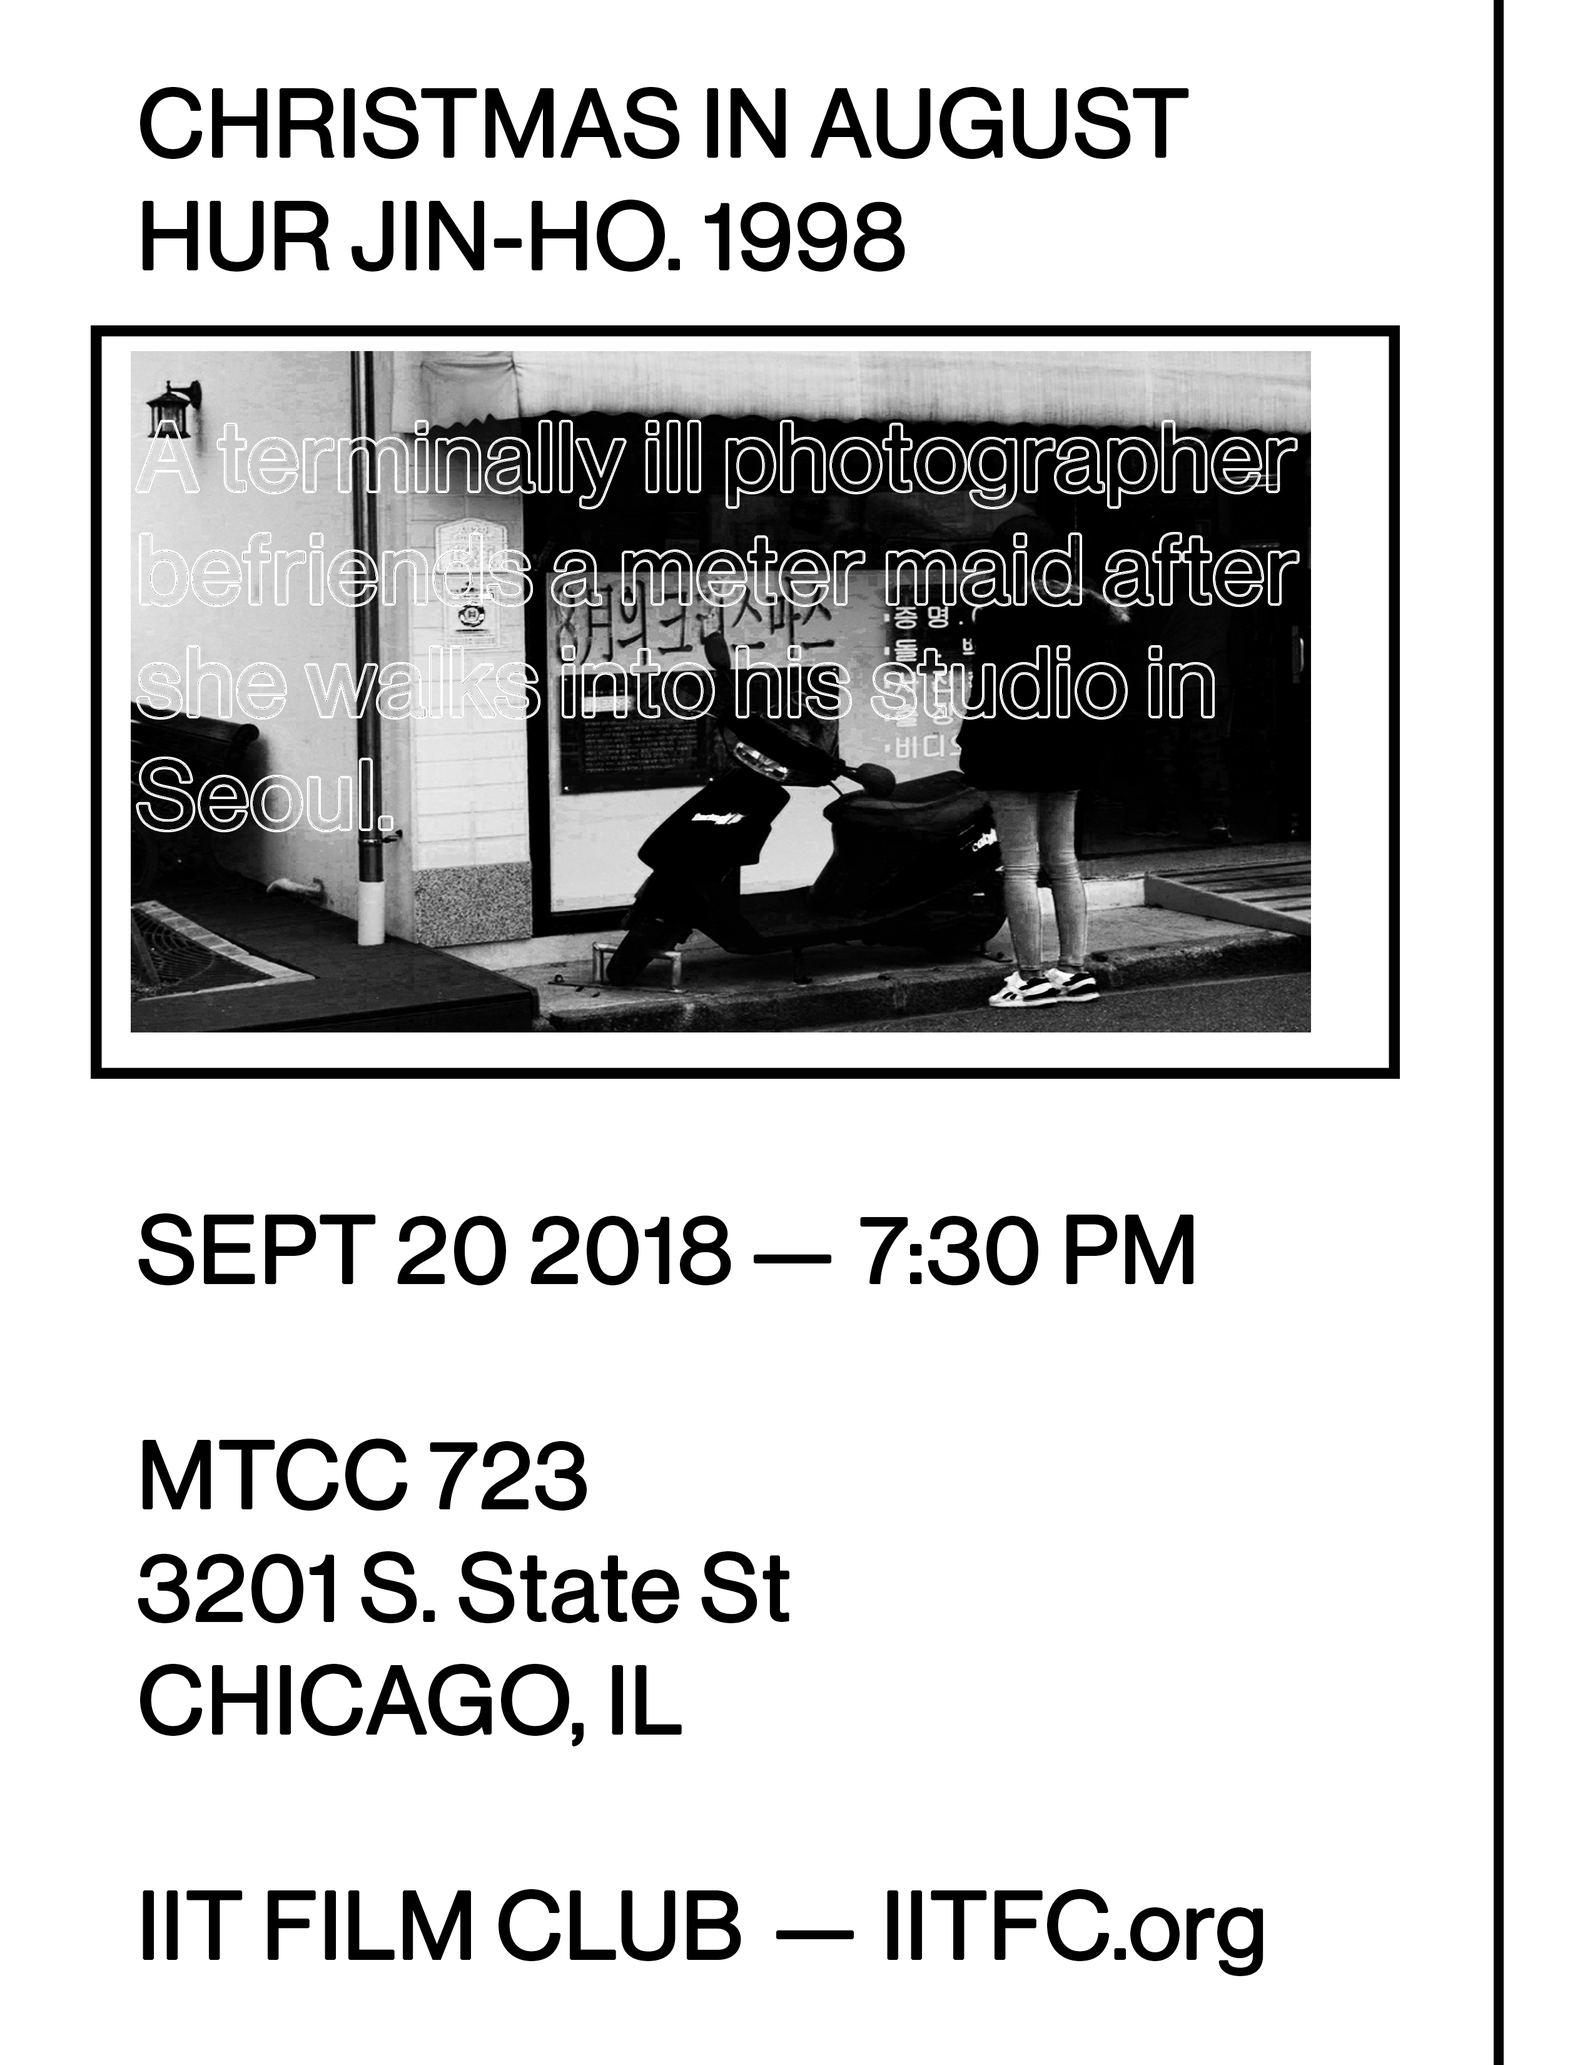
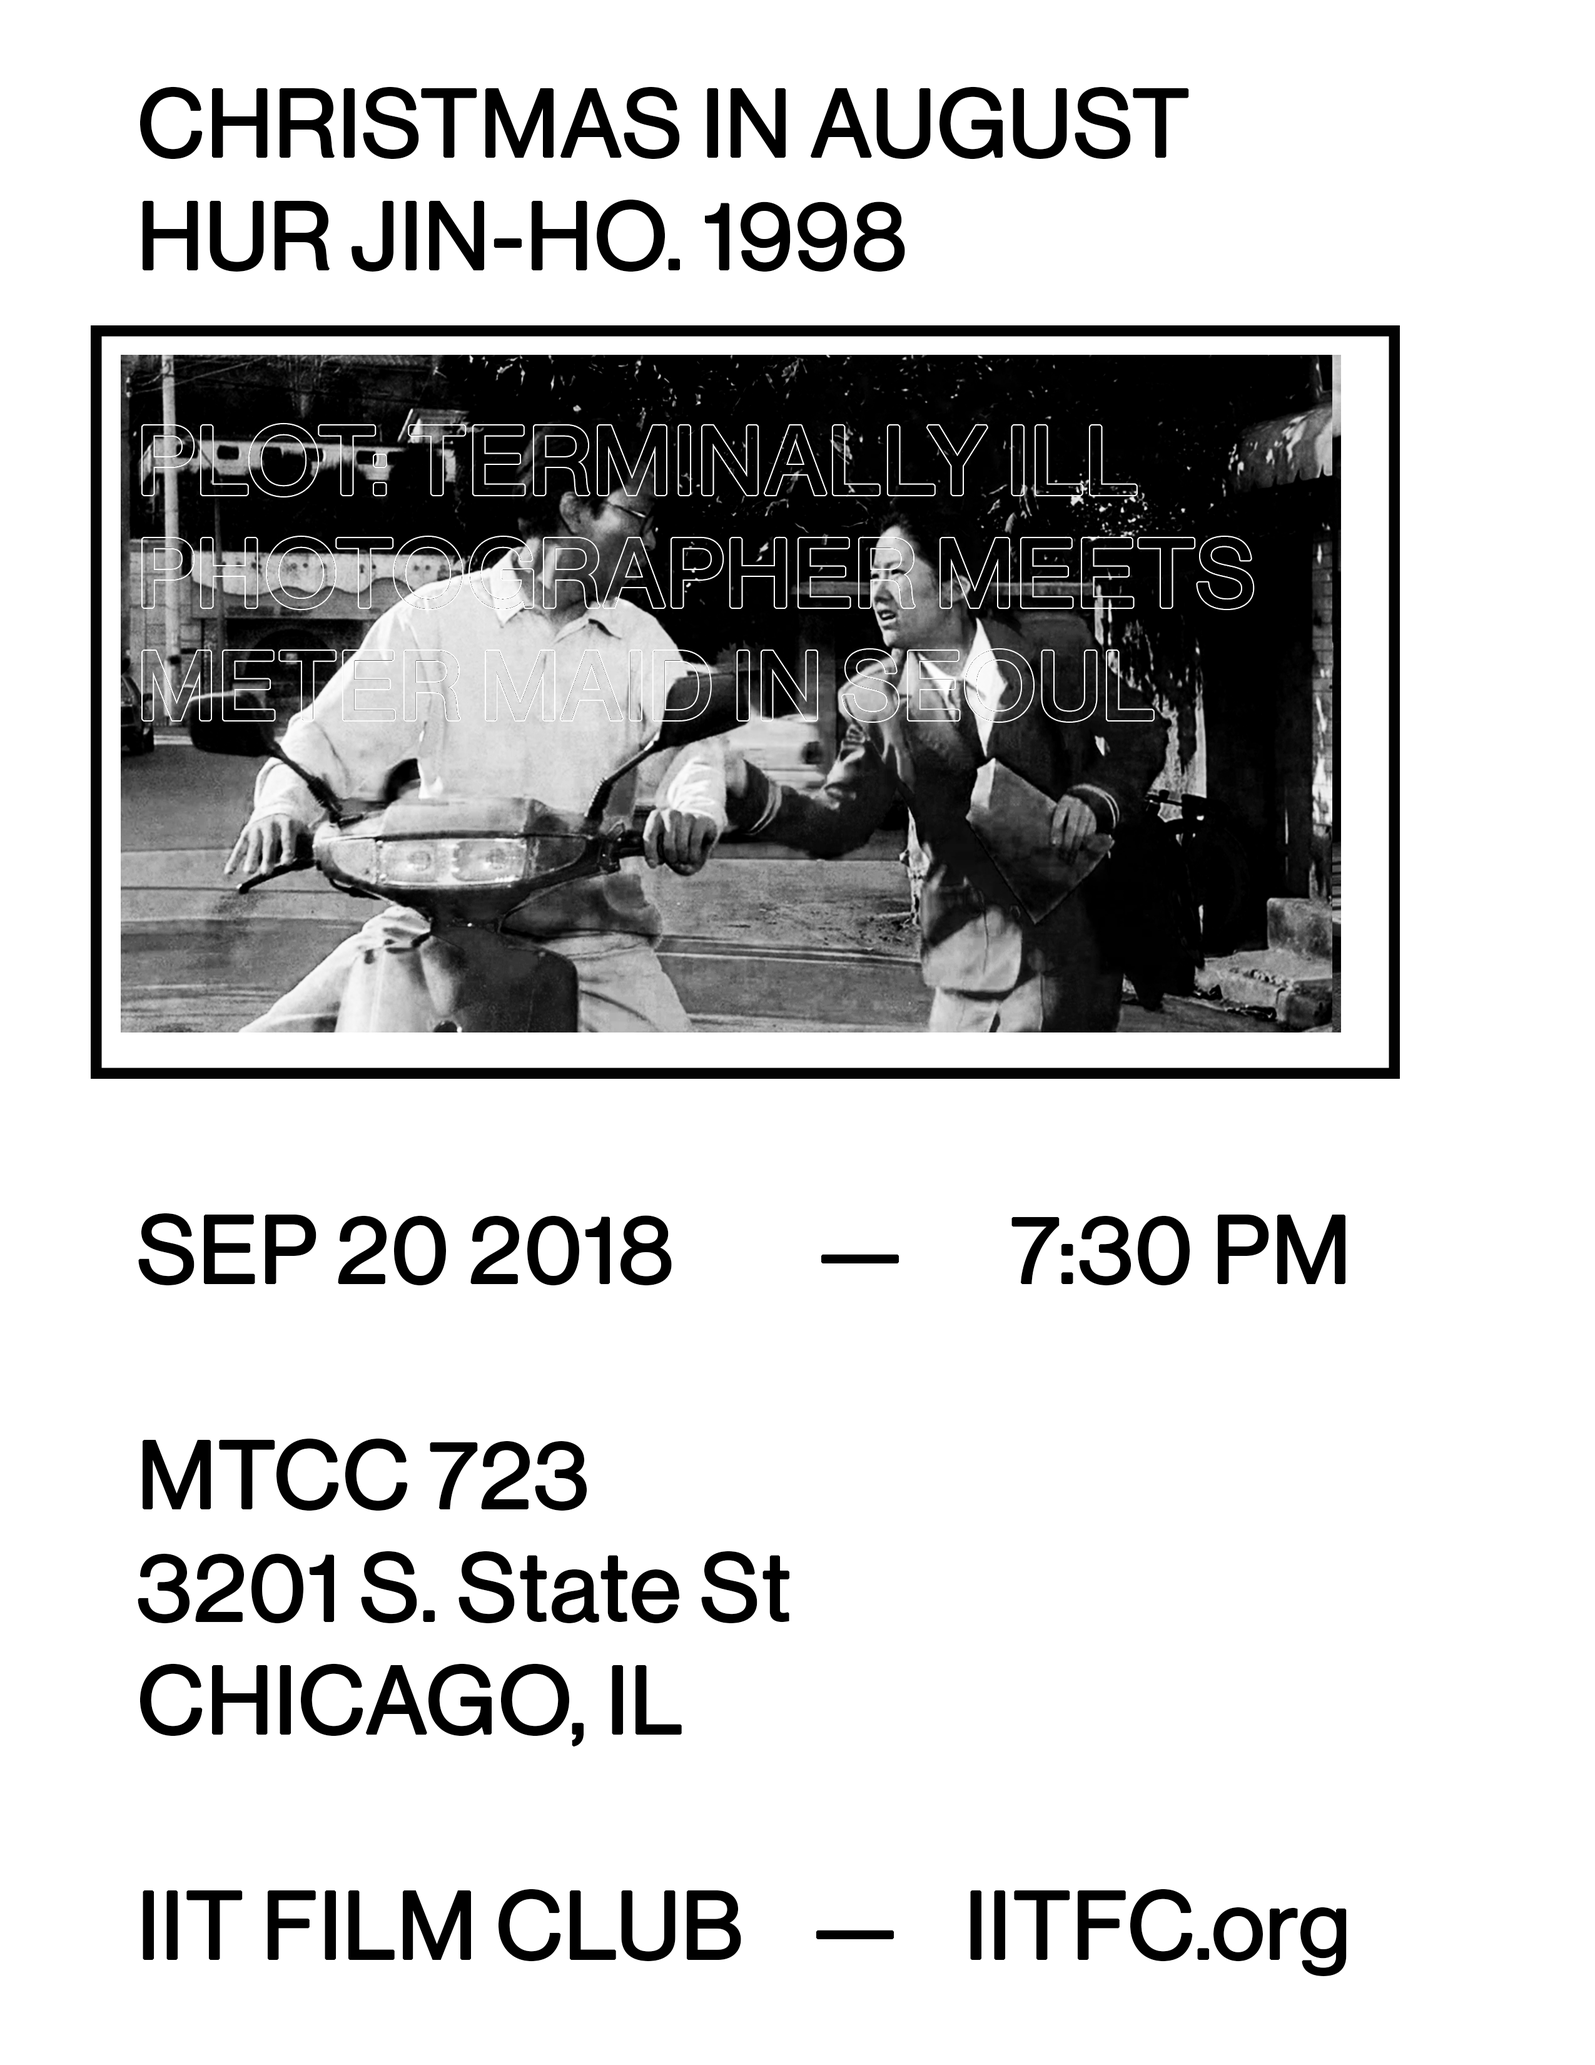
Add files via upload

diff --git a/archive/17/0910.html b/archive/17/0910.html
@@ -1,115 +1,118 @@
-<html><head>
+<html>
+<head>
     <meta http-equiv="Content-Type" content="text/html; charset=UTF-8">
     <title>IIT Film Club</title>
-
     <meta name="viewport" content="width=device-width, initial-scale=1, maximum-scale=1, user-scalable=0">
-
     <meta name="description" content="Illinois Institute of Technology Film Club">
-
     <link rel="stylesheet" href="../../../../style.css">
-
+    <link href="style.css" rel="stylesheet" type="text/css">
 </head>
-
 <body class="black">
+      <header>
+                  <!-- RIGHT HEADER TIME -->
+                    <div id="right" style="float:  right;padding-right: 24px;/* margin-top: 24px; */text-align: right;">
+                        <p>7pm - 11pm</p>
+                        <p>Thursdays</p>
 
-    <header>
-        <div id="right" style="
-    float:  right;
-    padding-right: 24px;
-    /* margin-top: 24px; */
-    text-align: right;
-">
-            <p>7pm - 11pm</p>
-            <p> Thursdays </p>
+                  <!-- RIGHT HEADER ADDRESS -->
+                    </div>
+                    <div id="right-2">
+                      <p style="/* margin-left: -20px; */padding-right: 2px;" class="location">
+                        Located @ <a href="/img/mtcc723.jpg">MTCC #723</a></p>
+                      <p>3201 S State St,</p>
+                        <p style="text-align: left;padding-left: 90px;">
+                          Chicago, IL.</p>
+                    </div>
 
-        </div>
-        <div id="right-2">
-          <p style="/* margin-left: -20px; */padding-right: 2px;" class="location">Located @ <a href="/mtcc725.jpg">MTCC #725</a></p>
-          <p>3201 S State St,</p>
-            <p style="
-    text-align: left;
-    padding-left: 90px;
-"> Chicago, IL.</p>
-        </div>
-        <div id="left" style="
-    margin-top: 0px;
-">
-            <h1><a href="http://www.iitfc.org/" class="logo">IIT FILM CLUB</a></h1>
+                  <!-- LEFT HEADER -->
+                  <div id="left" style="margin-top: 0px;">
+                      <h1><a href="http://www.iitfc.org/" class="logo">IIT FILM CLUB</a></h1>
+                      <p>Organizing campus film interests.</p>
+                      <p> <a href="mailto:fc@hawk.iit.edu">fc@hawk.iit.edu</a>
+                      </p>
 
-            <p>Organizing campus film interests.</p>
-            <p> <a href="mailto:fc@hawk.iit.edu">fc@hawk.iit.edu</a>
-            </p>
+                      <p>
+                          <a href="https://facebook.com/iitfc">[fb]</a>
+                          <span class="dash"></span>
+                          <a href="https://hawklink.iit.edu/organization/filmclub">[iit]</a>
+                      </p>
+                      <br>
 
-            <p>
-                <a href="https://facebook.com/iitfc">[fb]</a>
-                <span class="dash"></span>
-                <a href="https://hawklink.iit.edu/organization/filmclub">[iit]</a>
-            </p>
-            <br>
-
-            <form id="signup" class="mailform" action="https://script.google.com/macros/s/AKfycbyr-KYwhjMX-AqDoBG0TQOY0ASPyleP6Tadg4rvhOxBpDNSlg8/exec" method="post">
-		<input type="hidden" name="_subject" value="FC Sign Up">
-		<input type="hidden" name="_format" value="plain">
+           <!-- MAILING LIST !-->
+                <form id="signup" class="mailform" action="https://script.google.com/macros/s/AKfycbyr-KYwhjMX-AqDoBG0TQOY0ASPyleP6Tadg4rvhOxBpDNSlg8/exec" method="post">
+		            <input type="hidden" name="_subject" value="FC Sign Up">
+		            <input type="hidden" name="_format" value="plain">
                 <input class="email" type="text" name="email" placeholder="e-mail">
                 <input class="join" type="submit" name="submit" value="Join"></form>
+
+            <!-- MONTHS -->
             <p id="dates">
-                <a href="/jan-feb.html">JAN/FEB</a>
+                <a href="/0102.html">JAN/FEB</a>
                 <span class="dash"></span>
-                <a href="/mar-apr.html">MAR/APR</a>
+                <a href="/0304.html">MAR/APR</a>
                 <span class="dash"></span>
-                <a href="/may-jun.html">MAY/JUN</a>
+                <a href="/0506.html">MAY/JUN</a>
                 <span class="dash mobile"></span>
-                <a href="/jul-aug.html">JUL/AUG</a>
+                <a href="/0708.html">JUL/AUG</a>
                 <span class="dash"></span>
-                <a href="/sep-oct.html" class="selected">SEP/OCT</a>
+                <a href="/0910.html" class="selected">SEP/OCT</a>
                 <span class="dash"></span>
-                <a href="/nov-dec.html">NOV/DEC</a>
+                <a href="/1112.html">NOV/DEC</a>
             </p>
         </div>
-
     </header>
 
-    <section class="left full">
-        <div id="result">
+    <!-- LISTINGS -->
+          <section class="left full">
+              <div id="result">
 
-            <a href="https://www.facebook.com/events/1961557740783296/" class="txt-container">
-                <h1><u>OCT 05 2017 — 7:30 PM — MTCC 725</u></h1>
-                <h1>Sonatine (ソナチネ). 1993</h1>
-                <p>Takeshi Kitano</p>
-                <p><br> Several yakuza from Tokyo are sent to Okinawa to help end a gang war. The war escalates and the Tokyo drifters decide to lay low at the beach.</p>
-                <div>Japanese with English subtitles</div>
+              <a href=""   class="txt-container">
+                <h1><u>SEPT 20 2018 — 7:30 PM — MTCC 723</u></h1>
+                <h1>Christmas in August (8월의 크리스마스). 1998</h1>
+                <p>Hur Jin-ho</p>
+                <p><br>A terminally ill photographer befriends a meter maid after she walks into his studio in Seoul.</p>
+                <div>Korean with English subtitles.</div>
+              </a>
+
+              <a href=""   class="txt-container">
+                <h1><u>SEPT 27 2018 — 7:30 PM — MTCC 723</u></h1>
+                <h1>Lovers on the Bridge. 1991</h1>
+                <p>Leos Carax</p>
+                <p><br>A homeless addict and a young painter with failing eyesight forge a bond on the streets of Paris.</p>
+                <div>French with English subtitles.</div>
+              </a>
+
+              <a href=""   class="txt-container">
+                <h1><u>OCT 4 2018 — 7:30 PM — MTCC 723</u></h1>
+                <h1>Terrorizers. 1986</h1>
+                <p>Edward Yang</p>
+                <p><br>A metaphysical mystery about the lives of three couples in Taipei that continually intersect over a span of several weeks.</p>
+                <div>Taiwanese with English subtitles.</div>
             </a>
 
-            <a href="https://www.facebook.com/events/135316427199637/" class="txt-container">
-                <h1><u>OCT 12 2017 — 7:30 PM — MTCC 725</u></h1>
-                <h1>3-Iron (빈집). 2004</h1>
-                <p>Kim Ki-duk</p>
-                <p><br> A transient young man breaks into empty homes to partake of the vacationing residents' lives for a few days.
-                </p>
-                <div>Korean with English subtitles</div>
-            </a>
+              <a href=""   class="txt-container">
+                <h1><u>OCT 11 2018 — 7:30 PM — MTCC 723</u></h1>
+                <h1>L'Amour Braque. 1985</h1>
+                <p>Andrzej Zulawski</p>
+                <p><br>Léon, Marie and Mickey experience a love triangle.</p>
+                <div>French with English subtitles.</div>
+              </a>
 
+              <a href=""   class="txt-container">
+                <h1><u>OCT 18 2018 — 7:30 PM — MTCC 723</u></h1>
+                <h1>Betty Blue (37° 2 le matin). 1986</h1>
+                <p>Jean-Jacques Beineix</p>
+                <p><br>A young woman whose passionate affair with handyman and would-be writer inexorably drifts towards tragedy as she becomes increasingly unbalanced.</p>
+                <div>French with English subtitles.</div>
+              </a>
 
-            <a href="https://www.facebook.com/events/1609891955724202/" class="txt-container">
-                <h1><u>OCT 19 2017 — 7:30 PM — MTCC 725</u></h1>
-                <h1>Videodrome, 1983</h1>
-                <p>David Cronenberg</p>
-                <p><br>The CEO of a television station stumbles upon a broadcast signal featuring extreme violence and torture. His attempts to uncover the source of the signal unravels a new media mind-control conspiracy in this techno-surrealist horror.
-                </p>
-                <div>English</div>
-            </a>
+              </div>
+          </section>
 
-            <a href="https://www.facebook.com/events/835269826634482/" class="txt-container">
-                <h1><u>OCT 26 2017 — 7:30 PM — MTCC 725</u></h1>
-                <h1>Ring (リング). 1998</h1>
-                <p>Hideo Nakata</p>
-                <p><br> A reporter and her ex-husband investigate a cursed video tape that is rumored to kill the viewer seven days after watching it.
-                </p>
-                <div>Japanese with English subtitles</div>
-            </a>
+    <!-- ARCHIVE -->
 
-
-        </div>
-    </section>
+    <footer>
+    <a href="/archive/00.html">ARCHIVE</a>
+    </footer>
 
 </body></html>

diff --git a/0910.html b/0910.html
@@ -1,35 +1,14 @@
 <html>
-
 <head>
     <meta http-equiv="Content-Type" content="text/html; charset=UTF-8">
     <title>IIT Film Club</title>
     <meta name="viewport" content="width=device-width, initial-scale=1, maximum-scale=1, user-scalable=0">
-
     <meta name="description" content="Illinois Institute of Technology Film Club">
-
     <link rel="stylesheet" href="../../../../style.css">
     <link href="style.css" rel="stylesheet" type="text/css">
 </head>
-
 <body class="black">
-
       <header>
-
-        <!-- LEFT HEADER -->
-        <div id="left" style="margin-top: 0px;">
-            <h1><a href="http://www.iitfc.org/" class="logo">IIT FILM CLUB</a></h1>
-            <p>Organizing campus film interests.</p>
-            <p> <a href="mailto:fc@hawk.iit.edu">fc@hawk.iit.edu</a>
-            </p>
-
-            <p>
-                <a href="https://facebook.com/iitfc">[fb]</a>
-                <span class="dash"></span>
-                <a href="https://hawklink.iit.edu/organization/filmclub">[iit]</a>
-            </p>
-            <br>
-
-
                   <!-- RIGHT HEADER TIME -->
                     <div id="right" style="float:  right;padding-right: 24px;/* margin-top: 24px; */text-align: right;">
                         <p>7pm - 11pm</p>
@@ -45,10 +24,24 @@
                           Chicago, IL.</p>
                     </div>
 
+                  <!-- LEFT HEADER -->
+                  <div id="left" style="margin-top: 0px;">
+                      <h1><a href="http://www.iitfc.org/" class="logo">IIT FILM CLUB</a></h1>
+                      <p>Organizing campus film interests.</p>
+                      <p> <a href="mailto:fc@hawk.iit.edu">fc@hawk.iit.edu</a>
+                      </p>
+
+                      <p>
+                          <a href="https://facebook.com/iitfc">[fb]</a>
+                          <span class="dash"></span>
+                          <a href="https://hawklink.iit.edu/organization/filmclub">[iit]</a>
+                      </p>
+                      <br>
+
            <!-- MAILING LIST !-->
-            <form id="signup" class="mailform" action="https://script.google.com/macros/s/AKfycbyr-KYwhjMX-AqDoBG0TQOY0ASPyleP6Tadg4rvhOxBpDNSlg8/exec" method="post">
-		<input type="hidden" name="_subject" value="FC Sign Up">
-		<input type="hidden" name="_format" value="plain">
+                <form id="signup" class="mailform" action="https://script.google.com/macros/s/AKfycbyr-KYwhjMX-AqDoBG0TQOY0ASPyleP6Tadg4rvhOxBpDNSlg8/exec" method="post">
+		            <input type="hidden" name="_subject" value="FC Sign Up">
+		            <input type="hidden" name="_format" value="plain">
                 <input class="email" type="text" name="email" placeholder="e-mail">
                 <input class="join" type="submit" name="submit" value="Join"></form>
 
@@ -117,6 +110,7 @@
           </section>
 
     <!-- ARCHIVE -->
+
     <footer>
     <a href="/archive/00.html">ARCHIVE</a>
     </footer>

diff --git a/0102.html b/0102.html
@@ -84,21 +84,3 @@
     </footer>
 
 </body></html>
-
-    </header>
-
-          <section class="left full">
-              <div id="result">
-
-                  <a href="./" class="txt-container">
-                      <h1><u>To be announced</u></h1>
-                  </a>
-
-              </div>
-          </section>
-
-    <footer>
-    <a href="/archive/17/1112.html">ARCHIVE</a>
-    </footer>
-
-</body></html>

diff --git a/0304.html b/0304.html
@@ -84,21 +84,3 @@
     </footer>
 
 </body></html>
-
-    </header>
-
-          <section class="left full">
-              <div id="result">
-
-                  <a href="./" class="txt-container">
-                      <h1><u>To be announced</u></h1>
-                  </a>
-
-              </div>
-          </section>
-
-    <footer>
-    <a href="/archive/17/1112.html">ARCHIVE</a>
-    </footer>
-
-</body></html>

diff --git a/0506.html b/0506.html
@@ -84,21 +84,3 @@
     </footer>
 
 </body></html>
-
-    </header>
-
-          <section class="left full">
-              <div id="result">
-
-                  <a href="./" class="txt-container">
-                      <h1><u>To be announced</u></h1>
-                  </a>
-
-              </div>
-          </section>
-
-    <footer>
-    <a href="/archive/17/1112.html">ARCHIVE</a>
-    </footer>
-
-</body></html>

diff --git a/0708.html b/0708.html
@@ -84,21 +84,3 @@
     </footer>
 
 </body></html>
-
-    </header>
-
-          <section class="left full">
-              <div id="result">
-
-                  <a href="./" class="txt-container">
-                      <h1><u>To be announced</u></h1>
-                  </a>
-
-              </div>
-          </section>
-
-    <footer>
-    <a href="/archive/17/1112.html">ARCHIVE</a>
-    </footer>
-
-</body></html>

diff --git a/1112.html b/1112.html
@@ -84,21 +84,3 @@
     </footer>
 
 </body></html>
-
-    </header>
-
-          <section class="left full">
-              <div id="result">
-
-                  <a href="./" class="txt-container">
-                      <h1><u>To be announced</u></h1>
-                  </a>
-
-              </div>
-          </section>
-
-    <footer>
-    <a href="/archive/17/1112.html">ARCHIVE</a>
-    </footer>
-
-</body></html>
